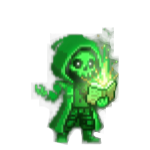
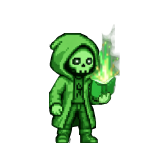
feat: assets..

Changed region(s): [[0.2133, 0.16, 0.8, 0.9867]]

diff --git a/src/components/battle/BattleStage.tsx b/src/components/battle/BattleStage.tsx
@@ -26,7 +26,7 @@ export const BattleStage: React.FC = () => {
   const BASE_WIDTH = 800
   const BASE_HEIGHT = 350
 
-  const onBattleScene = useMemo(() => getConfig()?.visibleBattle, [getConfig, inBattle])
+  const onBattleScene = useMemo(() => getConfig()?.visibleBattle || true, [getConfig, inBattle])
 
   useEffect(() => {
     if (!parentRef.current) return
@@ -78,7 +78,9 @@ export const BattleStage: React.FC = () => {
     () => getSortedEnemySide(originEnemiesSide),
     [originEnemiesSide, getSortedEnemySide]
   )
-  
+
+  console.log('onBattleScene && inBattle', onBattleScene)
+
   return (
     <div
       ref={parentRef}